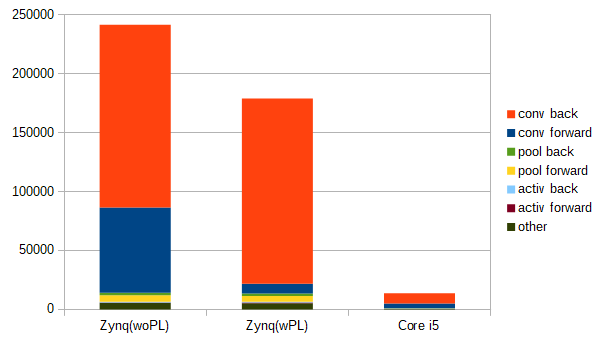
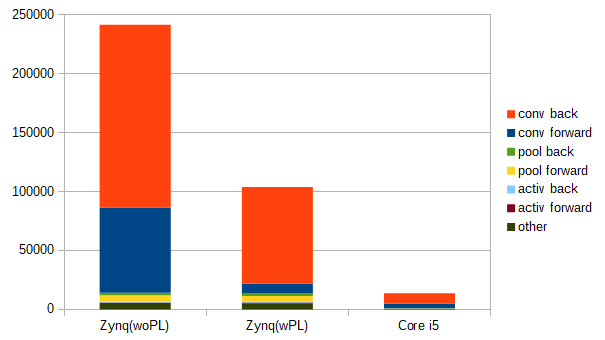
for Zynq

Changed region(s): [[0.3868, 0.2647, 0.5355, 0.5588]]

diff --git a/CORA/conv2d_op_internal.h b/CORA/conv2d_op_internal.h
@@ -57,7 +57,7 @@ inline void conv2d_op_internal(const tensor_t &in_data,
   // params.h_stride
   if(in_data.size()>1){
 
-    REG(dnn_addr+20) = iw*ih*id-1; //ss 
+    REG(dnn_addr+20) = iw*ih*id-1; //ss
     REG(dnn_addr+24) = id-1;       //id
     REG(dnn_addr+28) = iw*ih;      //is
     REG(dnn_addr+32) = ih-1;       //ih
@@ -70,8 +70,9 @@ inline void conv2d_op_internal(const tensor_t &in_data,
     REG(dnn_addr+56) = ow-1;       //ow
 
     REG(dnn_addr+ 4) = kw*kh*id-1; //fs
-    REG(dnn_addr+ 8) = kh-1;       //kh
-    REG(dnn_addr+12) = kw-1;       //kw
+    REG(dnn_addr+ 8) = kw*kh-1;    //ks
+    REG(dnn_addr+12) = kh-1;       //kh
+    REG(dnn_addr+16) = kw-1;       //kw
 
 
     /////////////////////////////////////////////////////////
@@ -124,8 +125,8 @@ inline void conv2d_op_internal(const tensor_t &in_data,
 
     /////////////////////////////////////////////////////////
     // Run
-    REG(dnn_addr+ 0) = 0; // init
-    REG(dnn_addr+ 0) = 4; // run
+    REG(dnn_addr+ 0) = 0;   // init
+    REG(dnn_addr+ 0) = 4|8; // run|enbias
 
     for (size_t sample = 0; sample < in_data.size(); sample++) {
       const vec_t &in = in_data[sample];
@@ -231,46 +232,101 @@ void conv2d_op_internal(const tensor_t &prev_out,
   typedef typename vec_t::value_type float_t;
 
   cst = std::chrono::high_resolution_clock::now();
-  for_i(parallelize, prev_out.size(), [&](size_t sample) {
-    // propagate delta to previous layer
-    for (size_t inc = 0; inc < params.in.depth_; inc++) {
-      for (size_t outc = 0; outc < params.out.depth_; outc++) {
-        if (!params.tbl.is_connected(outc, inc)) continue;
 
-        size_t idx        = 0;
-        idx               = params.in.depth_ * outc + inc;
-        idx               = params.weight.get_index(0, 0, idx);
-        const float_t *pw = &W[idx];
+  size_t iw          = params.in_padded.width_;
+  size_t ih          = params.in_padded.height_;
+  size_t id          = params.in.depth_;
+  size_t ow          = params.out.width_;
+  size_t oh          = params.out.height_;
+  size_t od          = params.out.depth_;
+  size_t kw          = params.weight.width_;
+  size_t kh          = params.weight.height_;
 
-        idx                       = params.out.get_index(0, 0, outc);
-        const float_t *pdelta_src = &curr_delta[sample][idx];
+  REG(dnn_addr+20) = ow*oh*od-1; //ss
+  REG(dnn_addr+24) = od-1;       //id
+  REG(dnn_addr+28) = ow*oh;      //is
+  REG(dnn_addr+32) = oh-1;       //ih
+  REG(dnn_addr+36) = ow-1;       //iw
+    
+  REG(dnn_addr+40) = iw*ih*id-1; //ds
+  REG(dnn_addr+44) = id-1;       //od
+  REG(dnn_addr+48) = iw*ih;      //os
+  REG(dnn_addr+52) = ih-1;       //oh
+  REG(dnn_addr+56) = iw-1;       //ow
 
-        idx = params.in_padded.get_index(0, 0, inc);
-        // float_t* pdelta_dst = &(*prev_delta)[sample][idx];
-        float_t *pdelta_dst = &prev_delta[sample][idx];
+  REG(dnn_addr+ 4) = kw*kh*od-1; //fs
+  REG(dnn_addr+ 8) = kw*kh-1;    //ks
+  REG(dnn_addr+12) = kh-1;       //kh
+  REG(dnn_addr+16) = kw-1;       //kw
 
-        for (size_t y = 0; y < params.out.height_; y++) {
-          for (size_t x = 0; x < params.out.width_; x++) {
-            const float_t *ppw = pw;
+  /////////////////////////////////////////////////////////
+  // Weight transfer
+  // AXI DMA reset
+  REG(dma_addr + 0x00) = 4;
+  while (REG(dma_addr + 0x00) & 0x4); // Wait for reset finish
 
-            idx                       = y * params.out.width_ + x;
-            const float_t ppdelta_src = pdelta_src[idx];
+  // DMA Buffer
+  for(size_t i=0;i<od*id*kh*kw;i++){
+    conv.f = W[i];
+    REG(src_addr+i*4) = conv.i;
+  }
 
-            float_t *ppdelta_dst =
-              pdelta_dst + y * params.h_stride * params.in_padded.width_ +
-              x * params.w_stride;
+  REG(dnn_addr+ 0) = 0|16; // init|backprop
+  REG(dnn_addr+ 0) = 2|16; // wwrite|backprop
 
-            for (size_t wy = 0; wy < params.weight.height_; wy++) {   // NOLINT
-              for (size_t wx = 0; wx < params.weight.width_; wx++) {  // NOLINT
-                idx = wy * params.in_padded.width_ + wx;
-                ppdelta_dst[idx] += *ppw++ * ppdelta_src;
-              }
-            }
-          }
-        }
+  // AXI DMA transfer tx
+  REG(dma_addr+ 0x00) = 1;
+  REG(dma_addr+ 0x18) = 0x1c000000;
+  REG(dma_addr+ 0x28) = od*id*kh*kw*4;
+
+  while ((REG(dma_addr+ 0x04) & 0x3)==0); // Wait for the tx to finish
+
+  /////////////////////////////////////////////////////////
+  // Run
+  REG(dnn_addr+ 0) = 0|16; // init|backprop
+  REG(dnn_addr+ 0) = 4|16; // run|backprop
+
+  for (size_t sample = 0; sample < prev_out.size(); sample++) {
+    const vec_t &in = curr_delta[sample];
+    vec_t &a        = prev_delta[sample];
+
+      // AXI DMA reset
+      REG(dma_addr + 0x30) = 4;
+      REG(dma_addr + 0x0) = 4;
+      while (REG(dma_addr + 0x0) & 0x4); // Wait for reset finish
+
+      /////////////////////////////////////////////////////////
+      // in data
+      for(size_t i=0;i<ow*oh*od;i++){
+        conv.f = in[i];
+        REG(src_addr+i*4) = conv.i;
       }
-    }
 
+      // AXI DMA transfer rx
+      REG(dma_addr+ 0x30) = 1;
+      REG(dma_addr+ 0x48) = 0x1e000000;
+      REG(dma_addr+ 0x58) = iw*ih*id*4;
+
+      // AXI DMA transfer tx
+      REG(dma_addr+ 0x00) = 1;
+      REG(dma_addr+ 0x18) = 0x1c000000;
+      REG(dma_addr+ 0x28) = ow*oh*od*4;
+
+      // Wait for the tx to finish
+      while ((REG(dma_addr+ 0x04) & 0x3)==0);
+
+      // Wait for the rx to finish
+      while ((REG(dma_addr+ 0x34) & 0x3)==0) ;
+
+      for(size_t i=0;i<id*ih*iw;i++){
+        conv.i = REG(dst_addr+i*4);
+        a[i] = conv.f;
+      }
+  }
+
+  REG(dnn_addr+ 0) = 0; // idle
+
+  for (size_t sample = 0; sample < prev_out.size(); sample++) {
     // accumulate dw
     for (size_t inc = 0; inc < params.in.depth_; inc++) {
       for (size_t outc = 0; outc < params.out.depth_; outc++) {
@@ -322,7 +378,7 @@ void conv2d_op_internal(const tensor_t &prev_out,
         db[sample][outc] += std::accumulate(delta, deltaa, float_t{0});
       }
     }
-  });
+  }
   cbt += std::chrono::high_resolution_clock::now() - cst;
   if(++cb==3750) std::cout << "cov back "
                            << std::chrono::duration_cast<std::chrono::milliseconds>(cbt).count() << "ms elapsed"

diff --git a/examples/mnist/readme.md b/examples/mnist/readme.md
@@ -6,7 +6,8 @@
 AXI Stream で 1サンプル分のデータを受け取り、core で畳み込み計算をして、AXI Stream で 1サンプル分の結果を吐き出します。  
 source buffer と destination buffer に 1サンプル分の入出力データを置くためのバッファを持ちます。  
 ウェイト用のバッファは core 内に持ちます。  
-sample controller で 1サンプル内の制御をして、batch controller でミニバッチ 1層の制御をします。  
+sample controller で 1サンプル内の制御をして、batch controller でミニバッチ 1層の制御をします。
+
 順方向伝搬と逆方向の傾き伝搬部分に対応しています。  
 sample control に見直しが必要なところが残っていますが…  
 ウェイトの傾き計算はまだ対応していません。
@@ -119,6 +120,7 @@ $ petalinux-package --boot --force --fsbl images/linux/zynq_fsbl.elf --fpga ../d
 
 FPGA で実行するプログラムをコンパイルするときは、```CORA/conv2d_op_internal.h, train.cpp``` で ```tiny_dnn/core/kernels/, examples/mnist/``` を上書きします。    
 その後、ホストPCでクロスコンパイルして
+
 ```
 $ arm-linux-gnueabi-g++ -O3 -mfpu=neon -mtune=cortex-a9 -mcpu=cortex-a9 -mfloat-abi=softfp -Wall -Wpedantic -Wno-narrowing -Wno-deprecated -DNDEBUG -std=gnu++14 -I ../../ -DDNN_USE_IMAGE_API train.cpp -o train -static
 ```

diff --git a/README.md b/README.md
@@ -29,8 +29,9 @@ root@Cora-Z7-07S:~# /mnt/train --data_path /mnt/data/ --learning_rate 1 --epochs
 ```
 
 ## アクセラレータ実装中
-今はまだ、順方向伝搬だけしか対応していません。  
-
+畳み込みの行列乗算を 16MAC で並列に計算して学習を加速します。  
+順方向伝搬と逆方向の傾き伝搬部分に対応しています。  
+ウェイトの傾き計算はまだ対応していません。  
 説明は ```examples/mnist/readme.md``` に整備中です。
 
 このくらい高速になります。  
